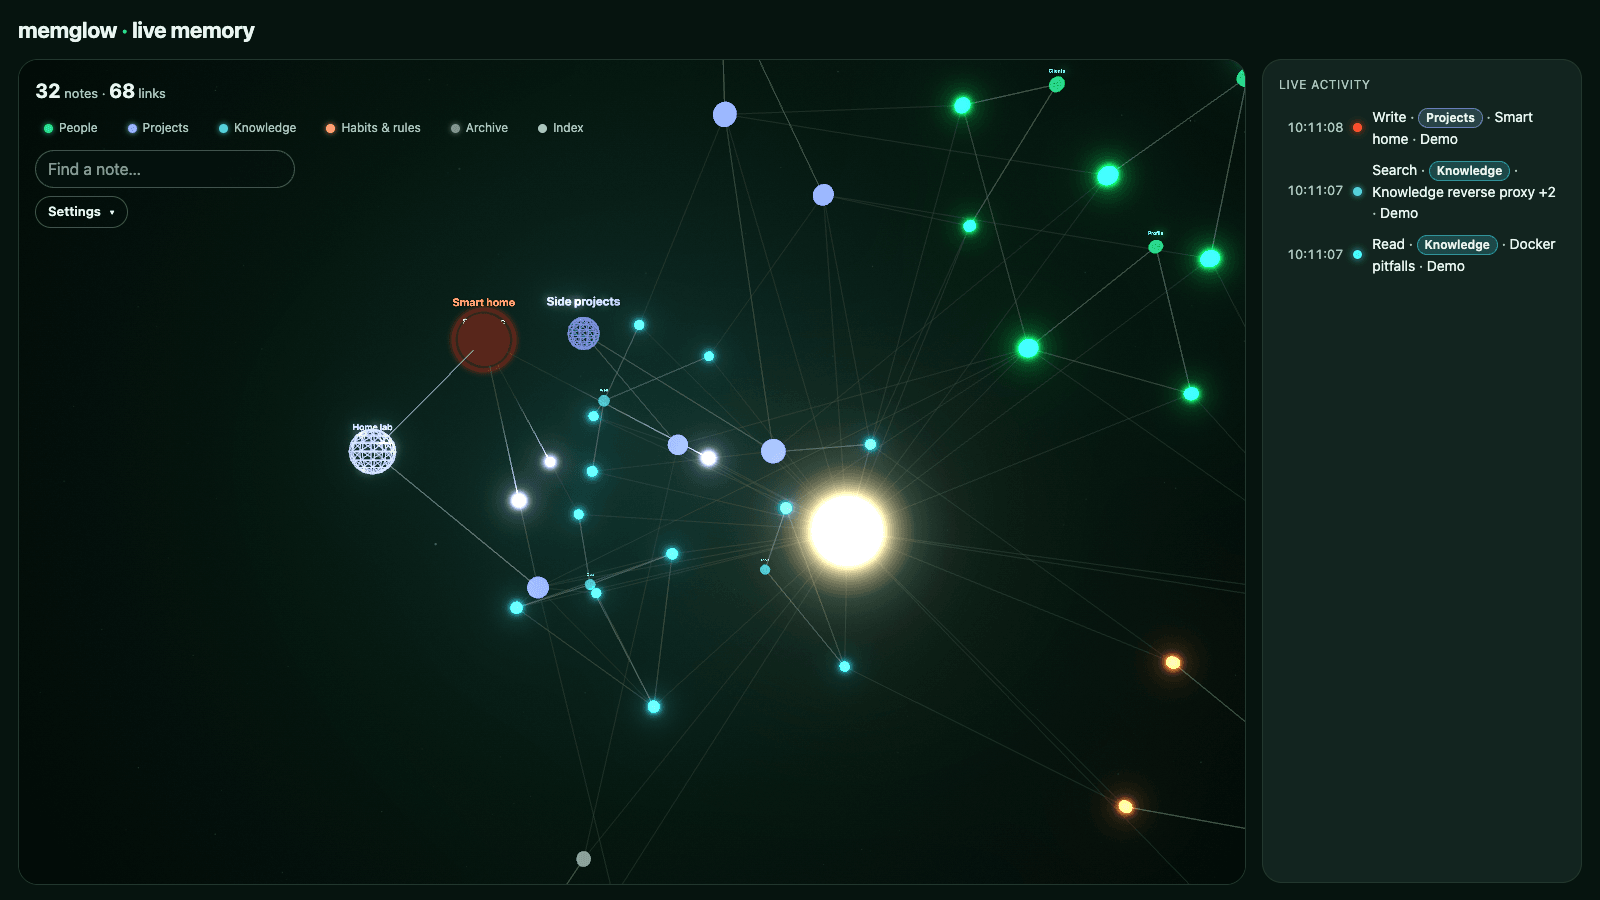
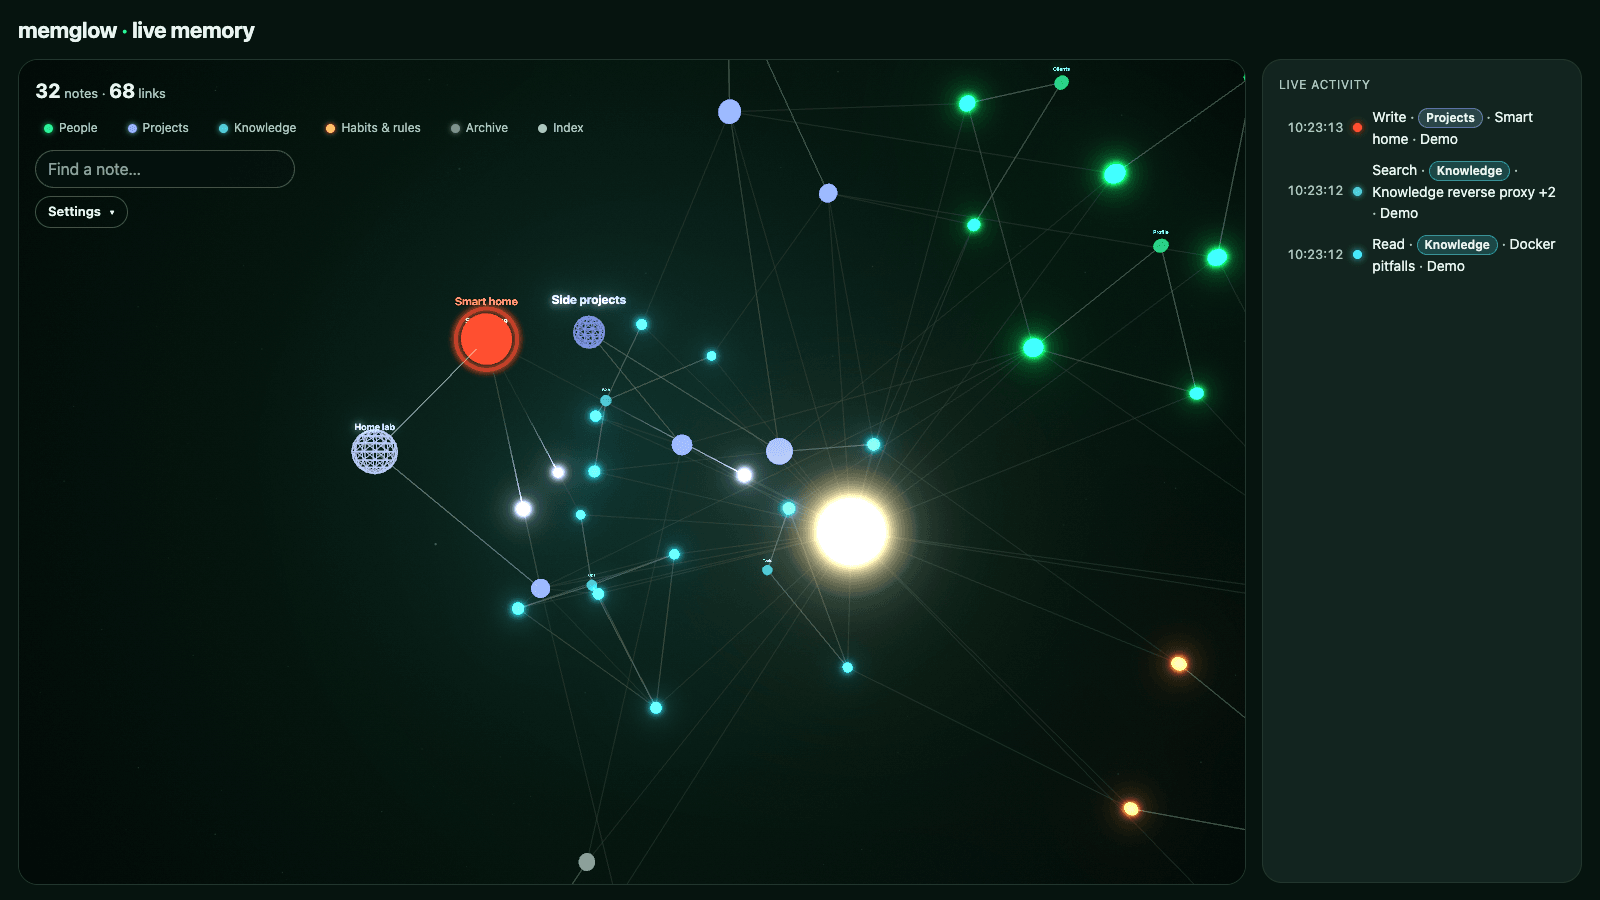
0.3.1: write capture at the flash peak, Memory cost capture with "1 note = 98 %"
- screenshot-write.png taken at the peak of the red-orange flash (was the dark phase)
- screenshot-cost.png re-captured with the 80 % share line (25e7ee8)
- screenshots.js samples the write flash densely to catch a peak
- CHANGELOG 0.3.1: Fixed entry for the "N notes = X %" line

diff --git a/demo/record/screenshots.js b/demo/record/screenshots.js
@@ -129,7 +129,8 @@ function startServer() {
     await wait(1500);
 
     await post("write", ["project-smart-home"]);
-    await series("write", [500, 1100, 1700, 2600]);
+    // the flash blinks 3 × 550 ms: sample densely to catch a peak
+    await series("write", [100, 200, 300, 400, 650, 750, 850, 950, 1200, 1300, 1400, 1500]);
     await wait(7500);
 
     await post("search", ["project-home-lab", "knowledge-mqtt", "project-smart-home", "reference-docker-pitfalls", "reference-backups"]);

diff --git a/CHANGELOG.md b/CHANGELOG.md
@@ -6,6 +6,8 @@
 
 - Double-click on the background (recenter / overview) now works with Mac trackpads: the native
   `dblclick` event is used, small pointer moves between the two clicks no longer cancel it.
+- Memory cost: the "N notes = X %" line now uses the smallest set of notes covering 80 % of the
+  reading (it said "8 notes = 100 %" when only 8 notes had been read).
 
 ### Changed
 
